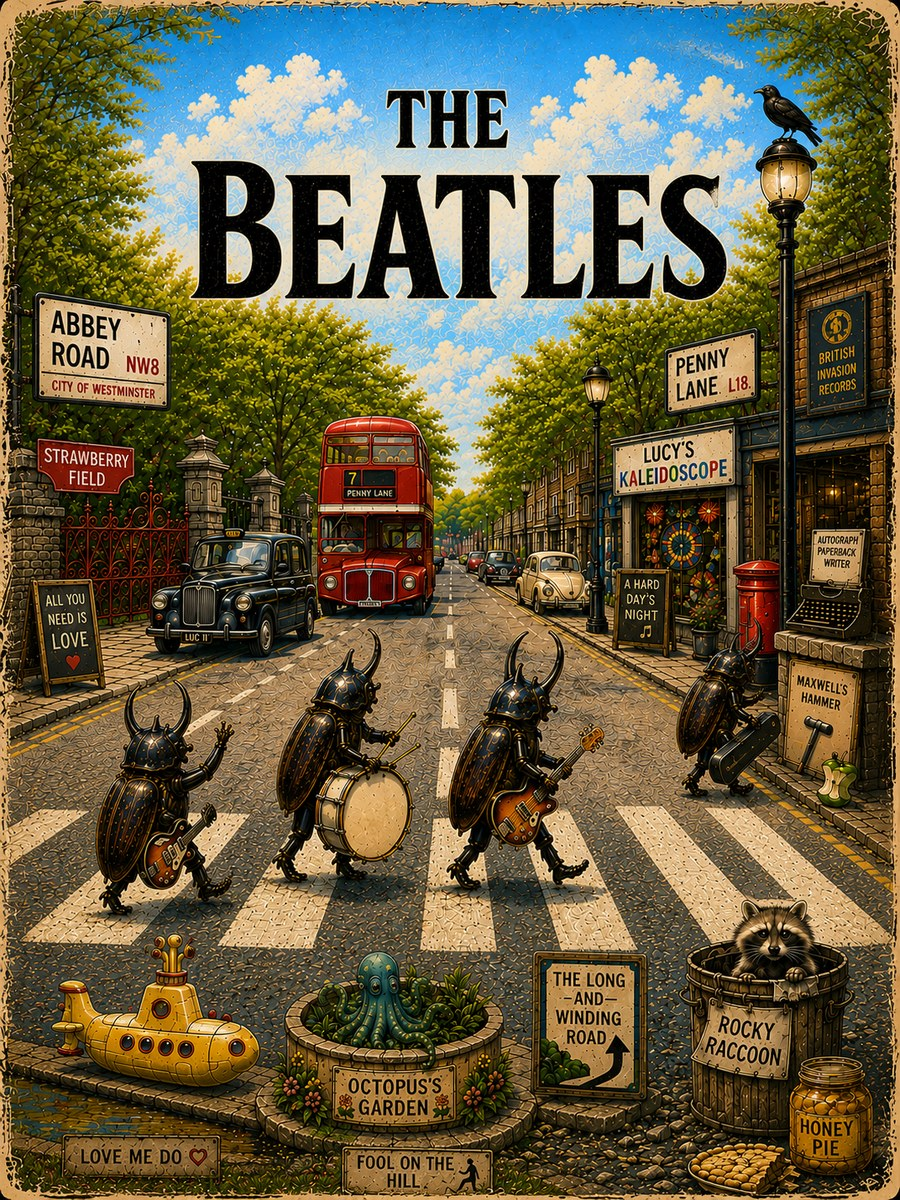
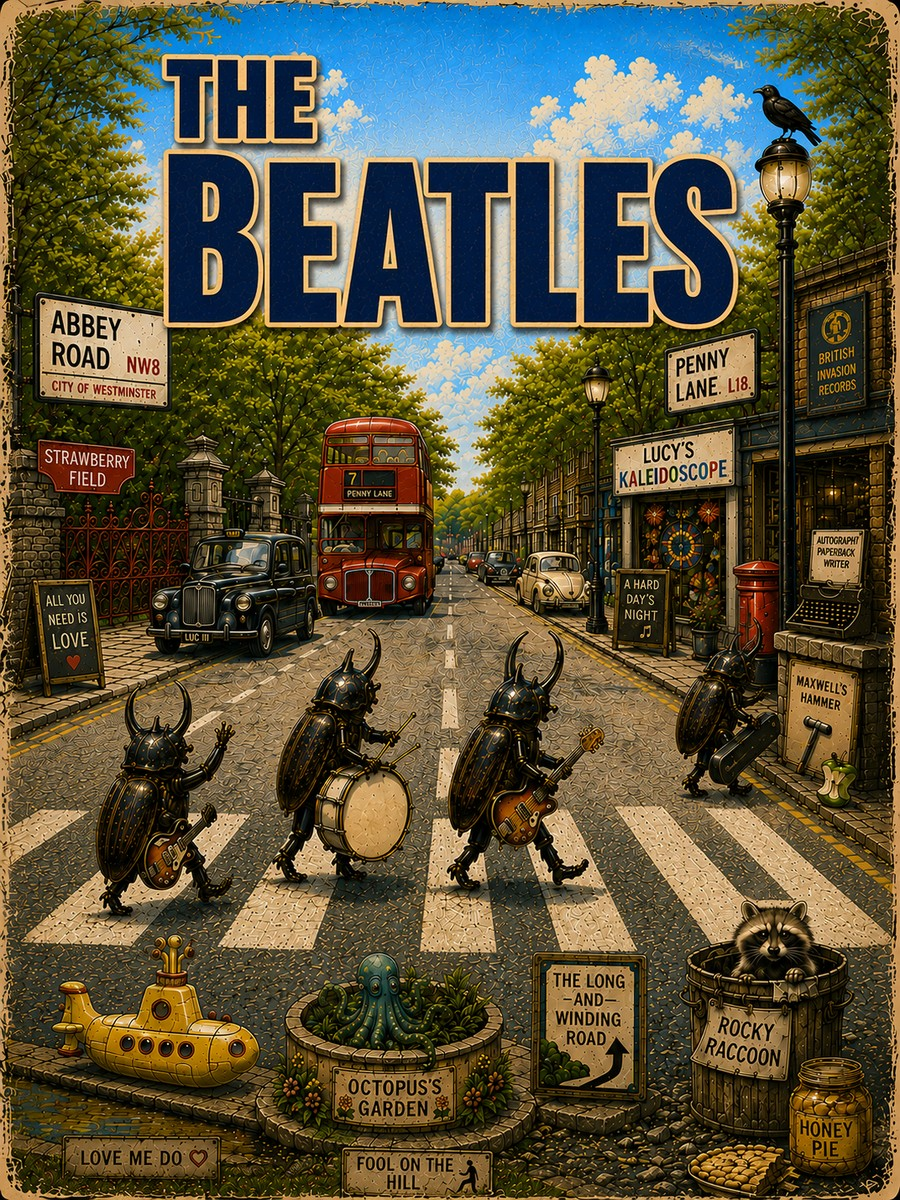
v257: The Beatles title moves off classic Beatles typography
Heavy black serif becomes navy with a gold outline. The drop-T that actually
makes their logo theirs was never in this poster, so what was being changed was
the treatment - weight, colour and a serif that read as their era's typography.
It now reads as a vintage travel poster, which suits the scene better anyway.

The stacked two lines stay, and that is fine: their wordmark is a single line.
The stack was never the thing.

The beetles on the zebra crossing stay too. That composition recreates a
copyrighted photograph, and it is the one item in the audit I argued to keep -
replacing four men with four insects is the kind of transformation parody
protection exists for, and the joke is the entire poster. Flagged, considered,
kept on purpose.

Every sign is a title or a real place: Abbey Road, Penny Lane, Strawberry Field,
Lucy's Kaleidoscope, A Hard Day's Night, Paperback Writer, Maxwell's Hammer,
Yellow Submarine, Octopus's Garden, The Long and Winding Road, Rocky Raccoon,
Honey Pie, Love Me Do, Fool on the Hill, All You Need Is Love.

1086x1448 exactly, no crop. 519 KB.

That closes every title treatment raised in the audit. The only confirmed item
left anywhere is card-timmcgraw.jpg.

Claude-Session: https://claude.ai/code/session_012avjdYG8yRCMZ3uJswRWwC

diff --git a/index.html b/index.html
@@ -911,7 +911,7 @@ function eraOf(v){ return ERA[v.id]||'neon'; }
    page arrives with ?open=, so the lookup returned '0' and every plate URL was busted
    with ?v=0 forever - an updated plate would never reach anyone who had opened that
    sheet once. Kept in step with the printed build tag by the release step. */
-var SFSBUILD='v256';
+var SFSBUILD='v257';
 var CARDART={"adele":{"o":"#F4A330"},"arianagrande":{"o":"#FFF6E0","l":1},"ate":{"o":"#DAA459"},"beatles":{"o":"#FFF6E0","l":1},"beyonce":{"o":"#FDB728"},"biggie":{"o":"#FDC472"},"billieeilish":{"o":"#B9C709"},"billyjoel":{"o":"#DBB17D"},"bonjovi":{"o":"#FFF6E0","l":1},"bowie":{"o":"#F7AF7C"},"brunomars":{"o":"#FEA928"},"carrieunderwood":{"o":"#D9B87A"},"ccr":{"o":"#F2C772"},"chrisstapleton":{"o":"#F2BA7D"},"codyjohnson":{"o":"#85C9EB"},"coldplay":{"o":"#E9BA87"},"dmb":{"o":"#2A1305"},"dualipa":{"o":"#A3ABC1"},"eagles":{"o":"#261C12"},"edsheeran":{"o":"#ECAB84"},"ellalangley":{"o":"#F1987E"},"eminem":{"o":"#D1B99F"},"faithhill":{"o":"#F3A63D"},"fleetwoodmac":{"o":"#BEC5C8"},"foo":{"o":"#F69F6D"},"fthc":{"o":"#3D3717"},"gratefuldead":{"o":"#FFF6E0","l":1},"greenday":{"o":"#CEB799"},"grunge90s":{"o":"#EFC973"},"harrystyles":{"o":"#F99B37"},"hendrix":{"o":"#FFF6E0","l":1},"jasonaldean":{"o":"#EAAE5F"},"jellyroll":{"o":"#301407"},"justintimberlake":{"o":"#B1C1D3"},"katyperry":{"o":"#3DC2D8"},"kennychesney":{"o":"#F6C587"},"kidstoybox":{"o":"#002848"},"ladygaga":{"o":"#FFBD46"},"laineywilson":{"o":"#FFF6E0","l":1},"ledzeppelin":{"o":"#E6AE57"},"lukebryan":{"o":"#332818"},"lukecombs":{"o":"#F19F31"},"maroon5":{"o":"#642F09"},"metallica":{"o":"#EABE95"},"morganwallen":{"o":"#DB9D94"},"mv_action":{"o":"#F0AD51"},"mv_animated":{"o":"#FFF6E0","l":1},"mv_comedy":{"o":"#FFF6E0","l":1},"mv_crime":{"o":"#F0AF37"},"mv_drama":{"o":"#DCA969"},"mv_fantasy":{"o":"#FAAA41"},"mv_horror":{"o":"#DBC27D"},"mv_romance":{"o":"#FFF6E0","l":1},"mv_scifi":{"o":"#26BDF5"},"mv_sports":{"o":"#FFF6E0","l":1},"mv_superhero":{"o":"#1C1B26"},"mv_war":{"o":"#1F150C"},"nirvana":{"o":"#CACACB"},"oasis":{"o":"#DDBA92"},"onedirection":{"o":"#F4A62D"},"pearljam":{"o":"#FFF6E0","l":1},"postmalone":{"o":"#FBA874"},"queen":{"o":"#F1BE78"},"rhcp":{"o":"#FFF6E0","l":1},"rihanna":{"o":"#BBAB97"},"selenagomez":{"o":"#FFF6E0","l":1},"shaboozey":{"o":"#DEB177"},"smashingpumpkins":{"o":"#BCAEC2"},"springsteen":{"o":"#E6A59C"},"stones":{"o":"#FFF6E0","l":1},"stp":{"o":"#FFF6E0","l":1},"summerbeach":{"o":"#FFF6E0","l":1},"taylorswift":{"o":"#D4A26D"},"thewho":{"o":"#F0C382"},"timmcgraw":{"o":"#251C0A"},"tompetty":{"o":"#FFF6E0","l":1},"tv_binge":{"o":"#D9B87A"},"tv_cartoon":{"o":"#171F6C"},"tv_gameshow":{"o":"#000B4D"},"tv_growingup":{"o":"#86B6F7"},"tv_oldschool":{"o":"#D9B87A"},"tv_scifi":{"o":"#66BBF7"},"tv_sitcom":{"o":"#C8AE93"},"u2":{"o":"#7EC0F2"},"zachbryan":{"o":"#191F15"}};
 function coverHTML(v,label){
  var e=eraOf(v);
@@ -1489,4 +1489,4 @@ brandBarState();
  setTimeout(go, 1500);
 })();
 </script>
-<div id="buildtag">v256</div><style>#buildtag{position:fixed;left:5px;bottom:3px;z-index:99999;font:700 9px/1 system-ui,sans-serif;color:rgba(255,255,255,.30);pointer-events:none;letter-spacing:.5px}</style></body></html>
+<div id="buildtag">v257</div><style>#buildtag{position:fixed;left:5px;bottom:3px;z-index:99999;font:700 9px/1 system-ui,sans-serif;color:rgba(255,255,255,.30);pointer-events:none;letter-spacing:.5px}</style></body></html>

diff --git a/sw.js b/sw.js
@@ -1,4 +1,4 @@
-var CACHE='sfs-v256';
+var CACHE='sfs-v257';
 /* IMPORTANT: do NOT precache the HTML documents. If the app shell is cached, an installed PWA
    can launch straight from cache and bypass Cloudflare Access. Keeping only static assets here
    forces every page launch to hit the network, so the Access login is always enforced. */
